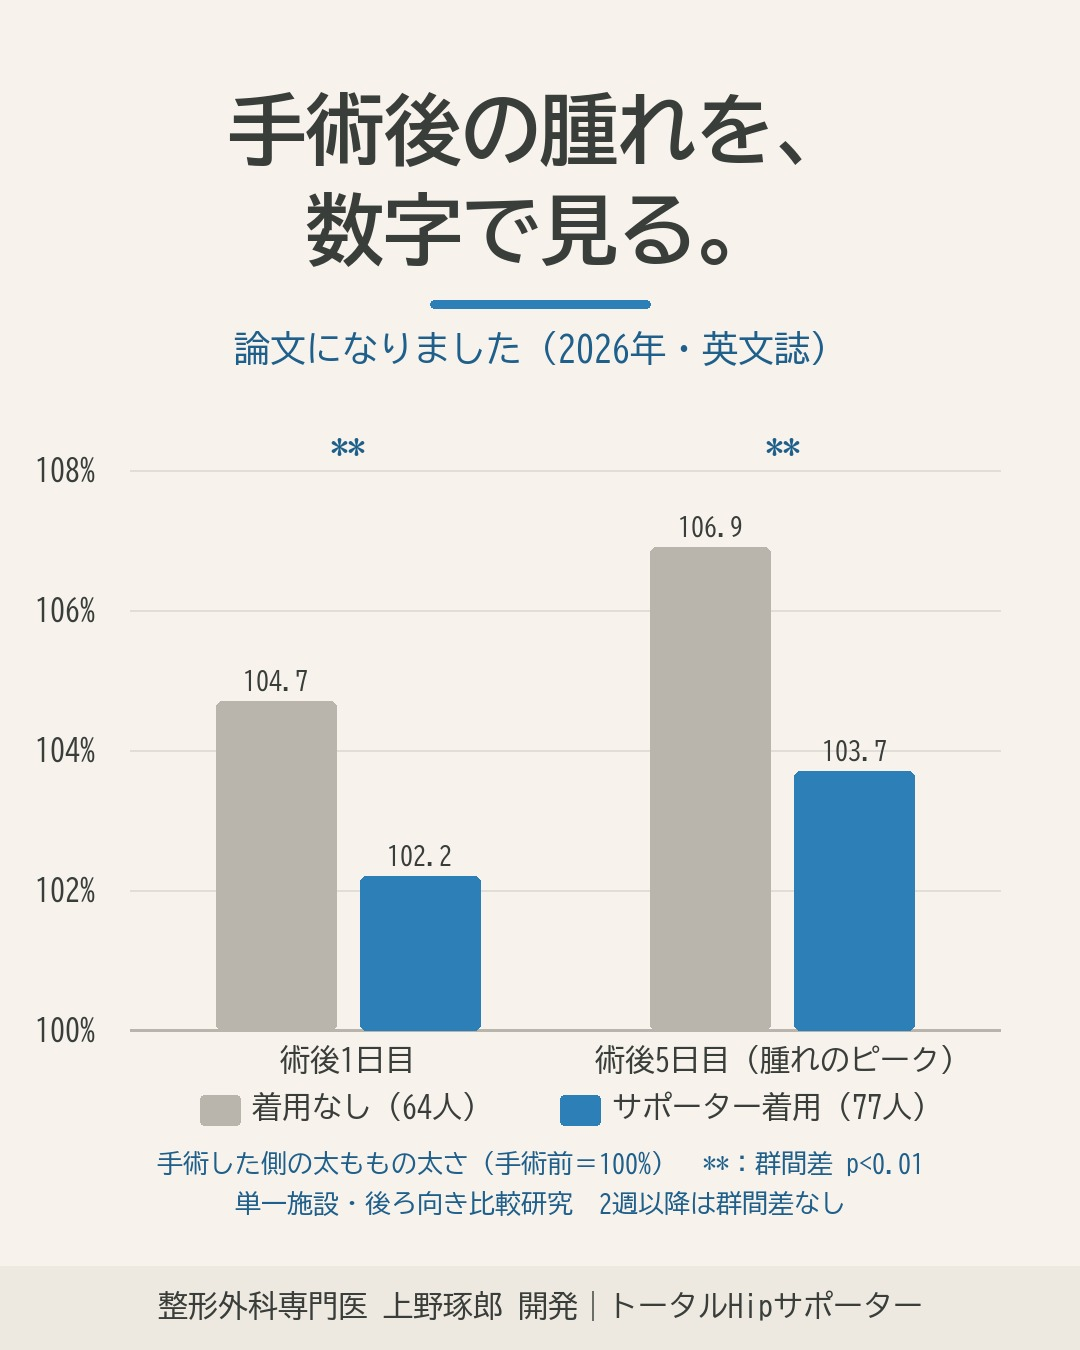
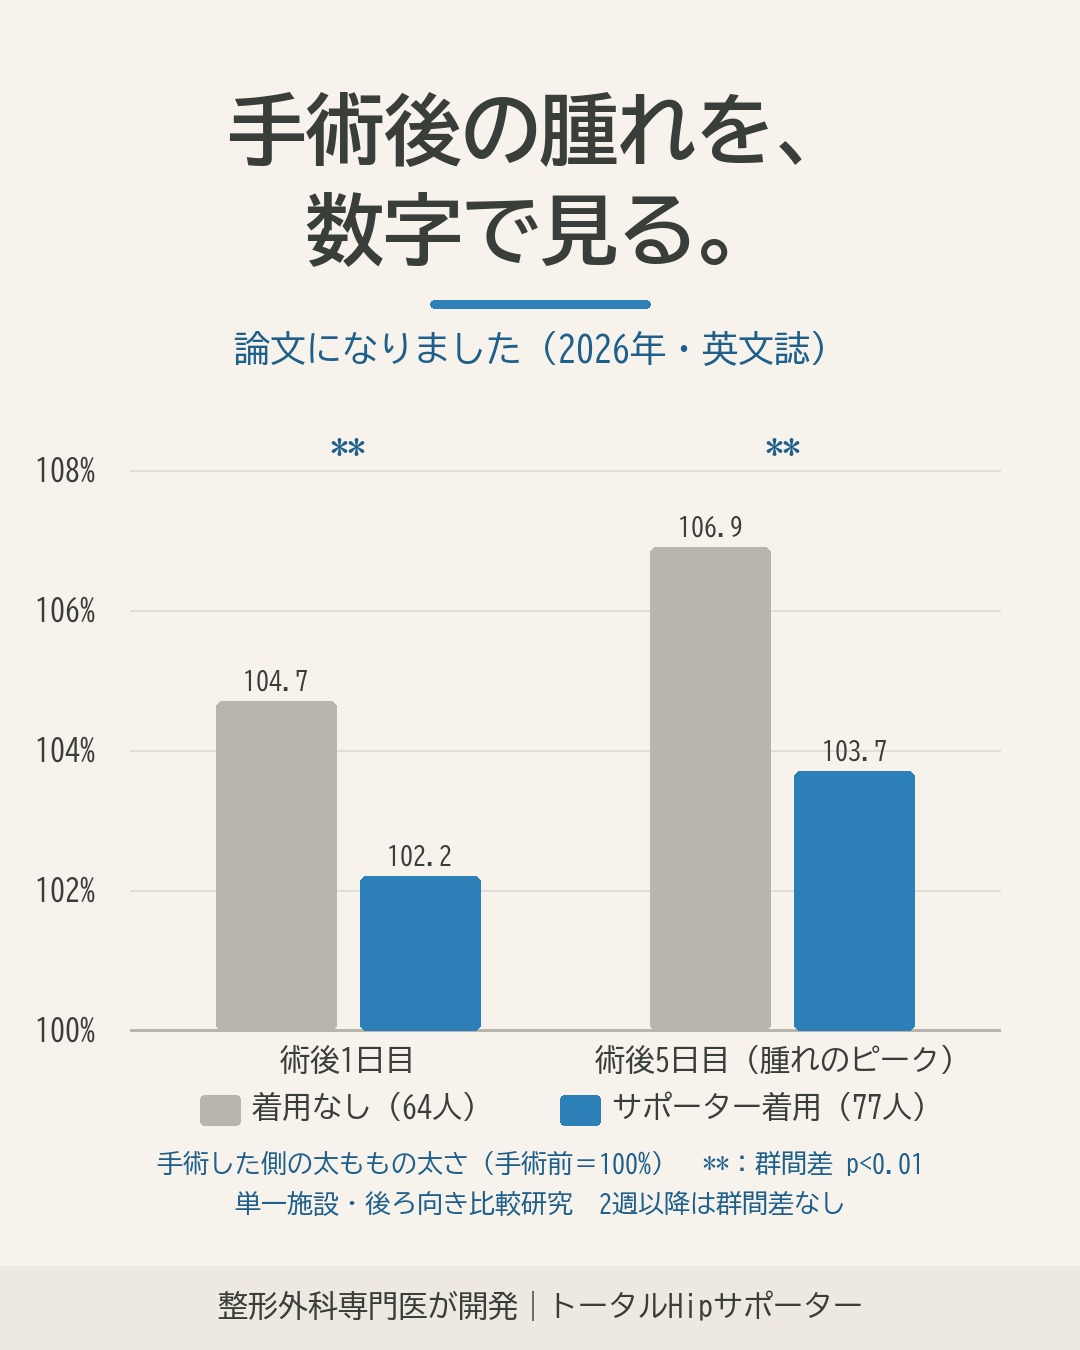
サポーターSNSの氏名ルール漏れを修正: 投稿カードを氏名なしで再生成し、予約の状況を記録
11/3の修正で再生成していなかった #02・#03・#06・#07・#11 の画像に氏名が残っていたため作り直した。
#07 は氏名入りのまま11/5に公開済み、#03 は予約の画像を差し替え済み、#11 は下書きへ移す対応待ち。

Changed region(s): [[0.1528, 0.9333, 0.7639, 0.9956]]

diff --git a/docs/instagram/運用設計_2026-11-01.md b/docs/instagram/運用設計_2026-11-01.md
@@ -330,4 +330,6 @@ doi: 10.1016/j.jjoisr.2026.04.002
 | 2026-11-08 19:00 | #03 産後 | 骨盤ベルトを、トイレのたびに外していませんか。 | 同上 | `posts/03_postpartum_1080x1350.jpg` |
 | 2026-11-11 19:00 | #11 論文 | 手術後の腫れを、数字で見る。 | 同上 | `posts/11_paper_1080x1350.jpg` |
 
+2026-11-06 追記: #07は氏名入り画像のまま11/5に公開された（要削除・再投稿）。#03は Business Suite の「投稿の編集」で氏名なし画像に差し替え済み（11/8 19:00のまま）。#11は本文・画像とも氏名ありで予約が残っており、ユーザーが下書きへ移す。#06・#02は予約されていない。Instagram本体の日時指定カレンダーにはBusiness Suiteの予約が出ない。
+
 予約の確認・変更: Meta Business Suite → コンテンツ → 日時指定済み（@total_hip_supporter）。Instagram本体の投稿画面には予約項目が出ないため、予約は Business Suite で行う（「Instagramでログイン」で入れる）。
